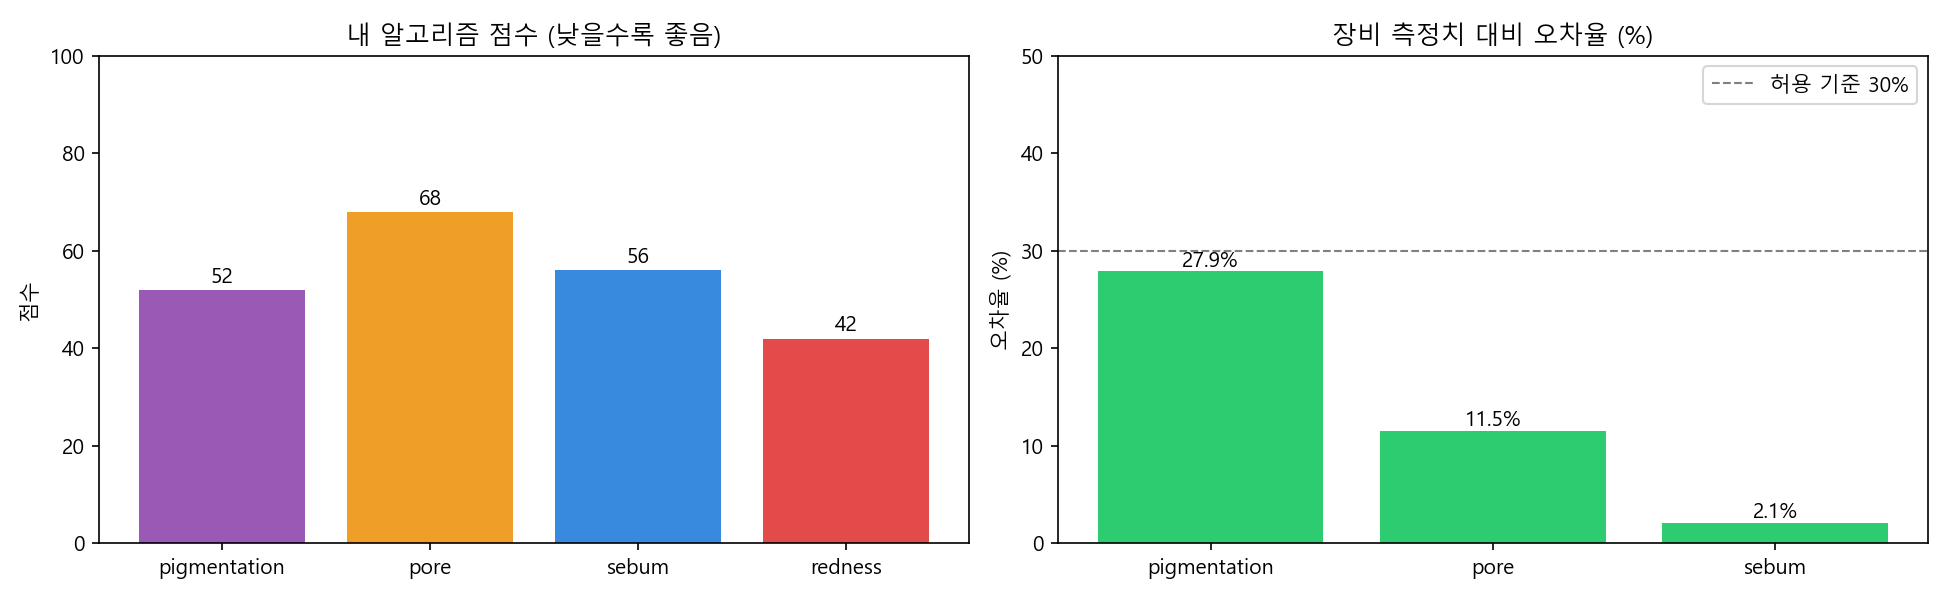
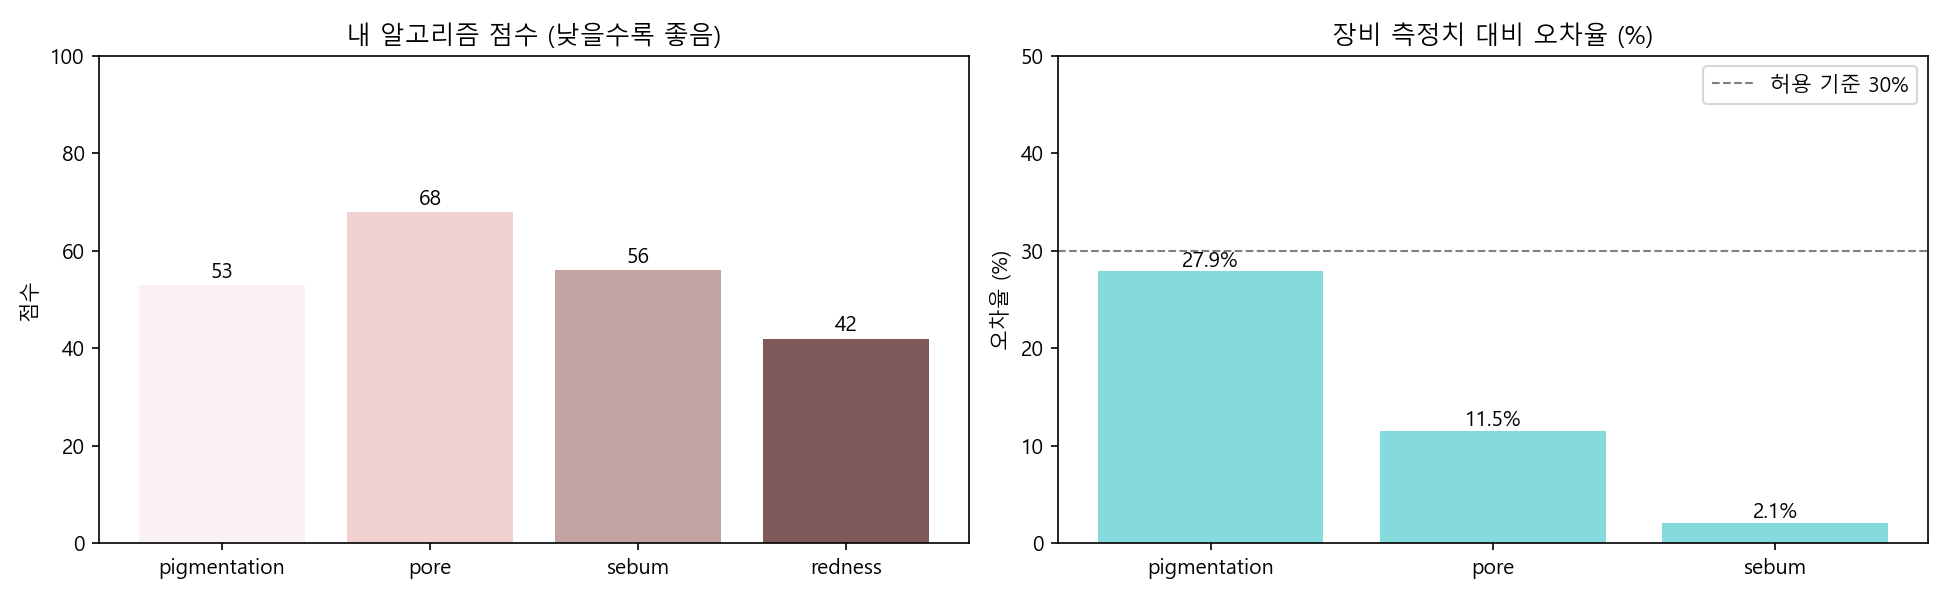
change result.png color

Changed region(s): [[0.0615, 0.33, 0.4923, 0.93], [0.5538, 0.45, 0.6769, 0.93], [0.7077, 0.72, 0.9846, 0.93]]

diff --git a/test.py b/test.py
@@ -212,7 +212,7 @@ def visualize(my_scores, ref, errors, save_path="result.png"):
     ax1 = axes[0]
     keys   = list(my_scores.keys())
     values = list(my_scores.values())
-    bars = ax1.bar(keys, values, color=["#9B59B6", "#EF9F27", "#378ADD", "#E24B4A"])
+    bars = ax1.bar(keys, values, color=["#faf1f2", "#f1d1d2", "#c1a3a3", "#7d5959"])
     ax1.set_ylim(0, 100)
     ax1.set_title("내 알고리즘 점수 (낮을수록 좋음)")
     ax1.set_ylabel("점수")
@@ -225,7 +225,7 @@ def visualize(my_scores, ref, errors, save_path="result.png"):
     if errors:
         err_keys = list(errors.keys())
         err_vals = list(errors.values())
-        bar_colors = ["#2ECC71" if v <= 30 else "#E74C3C" for v in err_vals]
+        bar_colors = ["#86dadb" if v <= 30 else "#E74C3C" for v in err_vals]
         bars2 = ax2.bar(err_keys, err_vals, color=bar_colors)
         ax2.axhline(y=30, color='gray', linestyle='--', linewidth=1, label='허용 기준 30%')
         ax2.set_ylim(0, max(max(err_vals) * 1.3, 50))
